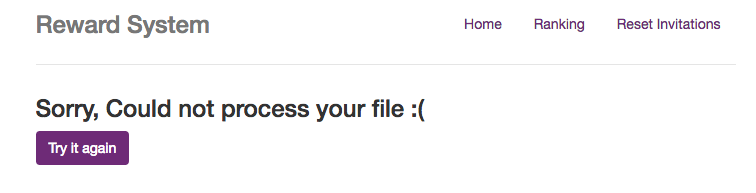
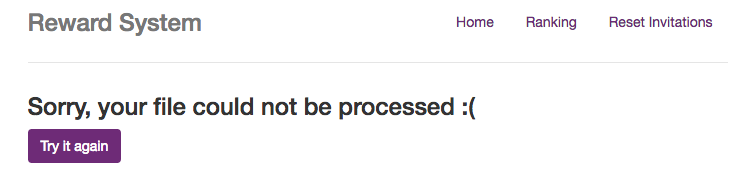
correct english words

diff --git a/README.md b/README.md
@@ -1,7 +1,7 @@
 # Reward system
-It is a reward system that will give a customer points for each confirmed invitation they played a part into.
+It is a reward system that will give customers points for each confirmed invitation they played a part into.
 
-The solution is based on [Sparse matrix](https://en.wikipedia.org/wiki/Sparse_matrix) and [directed graph](https://en.wikipedia.org/wiki/Directed_graph).
+The solution is based on [sparse matrix](https://en.wikipedia.org/wiki/Sparse_matrix) and [directed graph](https://en.wikipedia.org/wiki/Directed_graph) concepts.
 ___
 
 ## Prerequisites
@@ -21,17 +21,17 @@ lein ring server
 ```
 
 #### Home
-You can invite yours friends by input one by one or send a file with multi invitation at the same time.
+You can invite your friends by inputing one by one or send a file that has all the invitations in it.
 
 ![](resources/private/home.png)
 
 #### Error
-In case of your file isn't format correct an error might shows up. Don't worry, you can fix and try it again.
+In case your file isn't in the correct format an error might show up. Don't worry, you can fix it and try again.
 
 ![](resources/private/error.png)
 
 #### Confirmation of your invite
-All good? So now, you can go back where you were and invite more of your friend or see are ranking.
+All good? So now, you can go back where you were and invite more friends or see the ranking.
 
 ![](resources/private/invitation.png)
 
@@ -39,7 +39,7 @@ All good? So now, you can go back where you were and invite more of your friend 
 ![](resources/private/ranking.png)
 
 #### Reset
-If you would like to reset all the counting, you also can reset the data.
+It is also possible to reset the data.
 
 ___
 ## Testing
